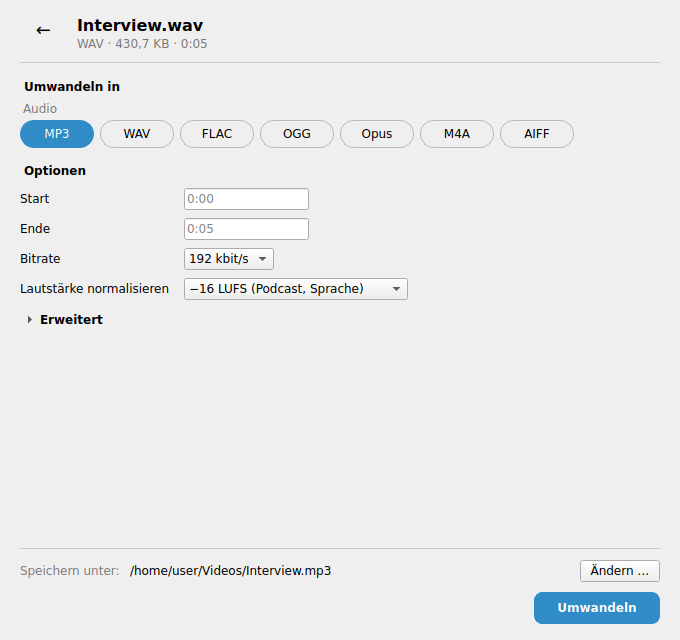
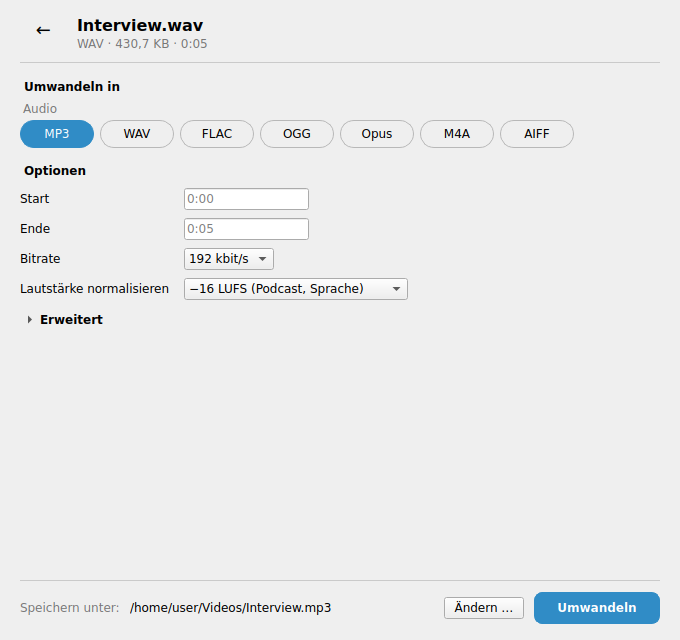
Convert button next to "Change …"
The footer of the options page is one row now: save location, "Change …" and
"Convert". The note (skipped files, cancelled) sits above it and only shows
when there is something to say. Screenshots updated.

Claude-Session: https://claude.ai/code/session_01AgiVeiHi7zjafpxvHarCcF

diff --git a/src/omniconverter/gui/main_window.py b/src/omniconverter/gui/main_window.py
@@ -211,6 +211,12 @@ class ConfigPage(QWidget):
         self.body_layout.addStretch(1)
 
         outer.addWidget(hline())
+        self.note = QLabel()  # e.g. skipped files or "cancelled"; only shown with a message
+        self.note.setObjectName("Muted")
+        self.note.setWordWrap(True)
+        self.note.hide()
+        outer.addWidget(self.note)
+
         out_row = QHBoxLayout()
         out_caption = QLabel(t("gui.save_to"))
         out_caption.setObjectName("Muted")
@@ -220,22 +226,15 @@ class ConfigPage(QWidget):
         self.output_label.setTextInteractionFlags(Qt.TextInteractionFlag.TextSelectableByMouse)
         self.change_output = QPushButton(t("gui.change"))
         self.change_output.clicked.connect(self._choose_output)
-        out_row.addWidget(out_caption)
-        out_row.addWidget(self.output_label, 1)
-        out_row.addWidget(self.change_output)
-        outer.addLayout(out_row)
-
-        actions = QHBoxLayout()
-        self.note = QLabel()
-        self.note.setObjectName("Muted")
-        self.note.setWordWrap(True)
-        actions.addWidget(self.note, 1)
         self.convert_button = QPushButton(t("gui.convert"))
         self.convert_button.setObjectName("Primary")
         self.convert_button.setDefault(True)
         self.convert_button.clicked.connect(window.start_conversion)
-        actions.addWidget(self.convert_button)
-        outer.addLayout(actions)
+        out_row.addWidget(out_caption)
+        out_row.addWidget(self.output_label, 1)
+        out_row.addWidget(self.change_output)
+        out_row.addWidget(self.convert_button)
+        outer.addLayout(out_row)
 
         self.group = QButtonGroup(self)
         self.group.setExclusive(True)
@@ -248,7 +247,7 @@ class ConfigPage(QWidget):
         self.sources = sources
         self.target = None
         self.custom_output = None
-        self.note.setText(note)
+        self.set_note(note)
         self.preview.clear()
         self._fill_header()
         self._fill_targets(choices)
@@ -261,6 +260,10 @@ class ConfigPage(QWidget):
         self._update_output()
         if self.target is None:
             self.preview.hide()
+
+    def set_note(self, text: str) -> None:
+        self.note.setText(text)
+        self.note.setVisible(bool(text))
 
     def _fill_header(self) -> None:
         is_text = len(self.sources) == 1 and self.sources[0].format.id == "text"
@@ -357,7 +360,7 @@ class ConfigPage(QWidget):
         try:
             options = self.window_.converter.options(self.sources[0], fmt)
         except ConversionError as exc:
-            self.note.setText(exc.message)
+            self.set_note(exc.message)
             options = []
         self._set_form(OptionsForm(options, self.sources[0].media))
         self._update_output()
@@ -680,7 +683,7 @@ class MainWindow(QMainWindow):
             try:
                 sources = [self.converter.inspect(s.path) for s in self.config_page.sources]
             except ConversionError as exc:  # e.g. the file was deleted meanwhile
-                self.config_page.note.setText(exc.message)
+                self.config_page.set_note(exc.message)
                 return
             self.config_page.load(sources, self.converter.targets(sources), keep_target=True)
 
@@ -816,7 +819,7 @@ class MainWindow(QMainWindow):
     def _on_worker_finished(self) -> None:
         worker, self.worker = self.worker, None
         if worker is not None and worker.cancelled and not self._outputs:
-            self.config_page.note.setText(t("gui.cancelled"))
+            self.config_page.set_note(t("gui.cancelled"))
             self.stack.setCurrentWidget(self.config_page)
             self.config_page._update_output()
             self.config_page.preview.resume()

diff --git a/tests/test_gui.py b/tests/test_gui.py
@@ -63,6 +63,24 @@ def test_png_to_jpg_end_to_end(window, qtbot, tmp_path):
         assert im.mode == "RGB" and im.size == (64, 32)
 
 
+def test_footer_is_one_row_and_the_note_only_shows_with_a_message(window, qtbot, tmp_path):
+    good, bad = tmp_path / "picture.png", tmp_path / "file.xyz"
+    Image.new("RGB", (16, 16), "teal").save(good)
+    bad.write_text("?")
+    window.open_files([str(good)])
+    page = window.config_page
+    target_button(window, "jpg").click()
+    qtbot.waitUntil(lambda: page.convert_button.geometry().width() > 0)
+    convert, change = page.convert_button.geometry(), page.change_output.geometry()
+    assert abs(convert.center().y() - change.center().y()) <= 2  # "Convert" next to "Change …"
+    assert convert.left() > change.right()
+    assert not page.note.isVisibleTo(page)
+
+    window.open_files([str(good), str(bad)])  # one of them cannot be converted
+    assert page.note.isVisibleTo(page) and page.note.text() == "1 file(s) skipped."
+    assert "file.xyz" in page.note.toolTip()
+
+
 def test_back_to_options_after_export_tries_another_format(window, qtbot, tmp_path):
     src = tmp_path / "picture.png"
     Image.new("RGB", (16, 16), "teal").save(src)
